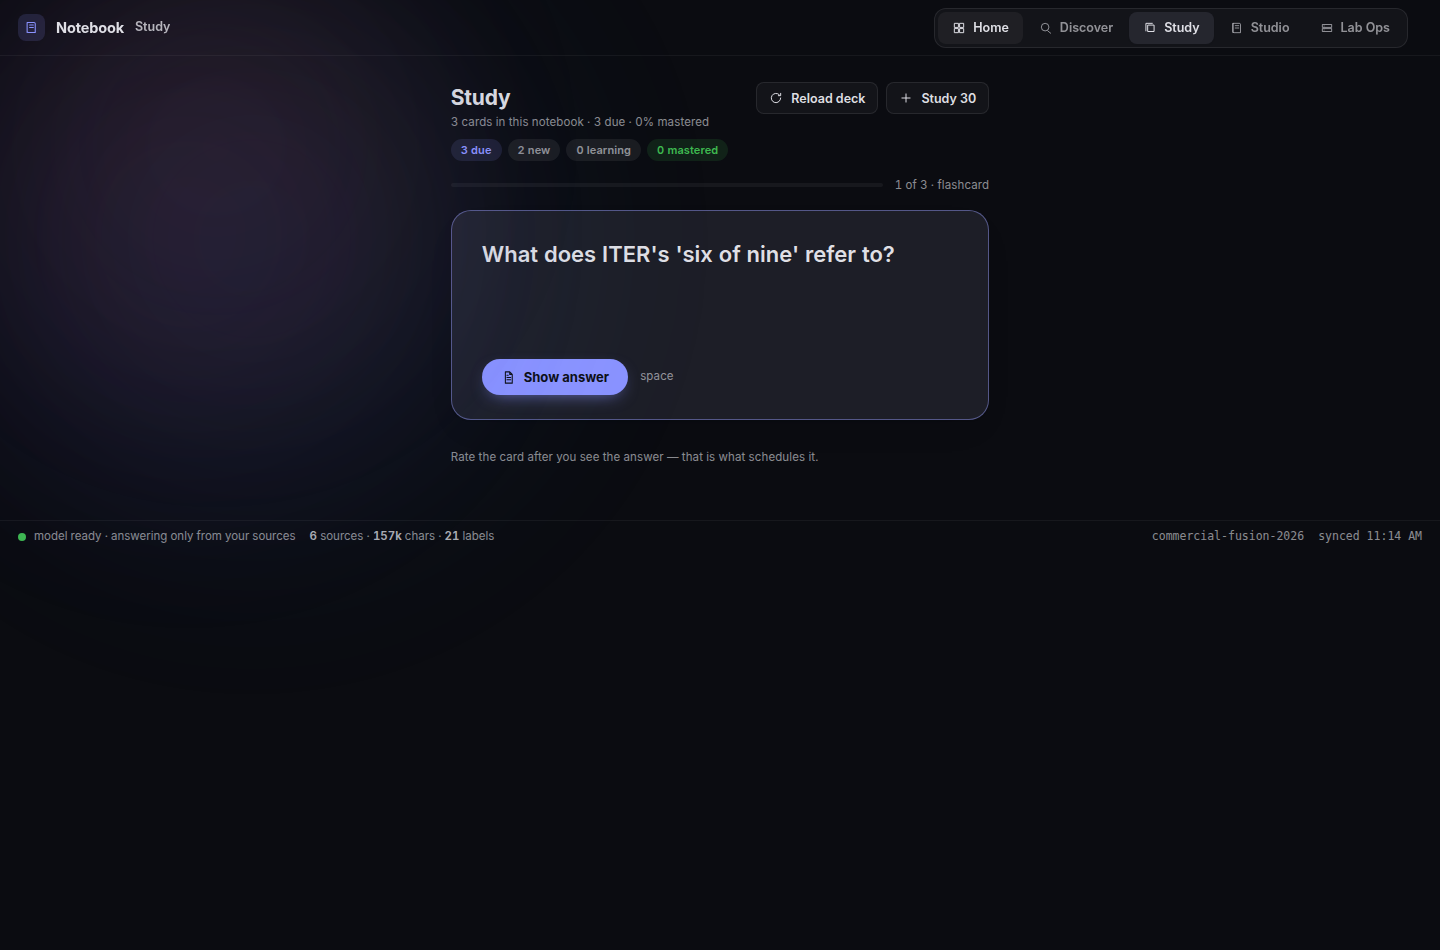
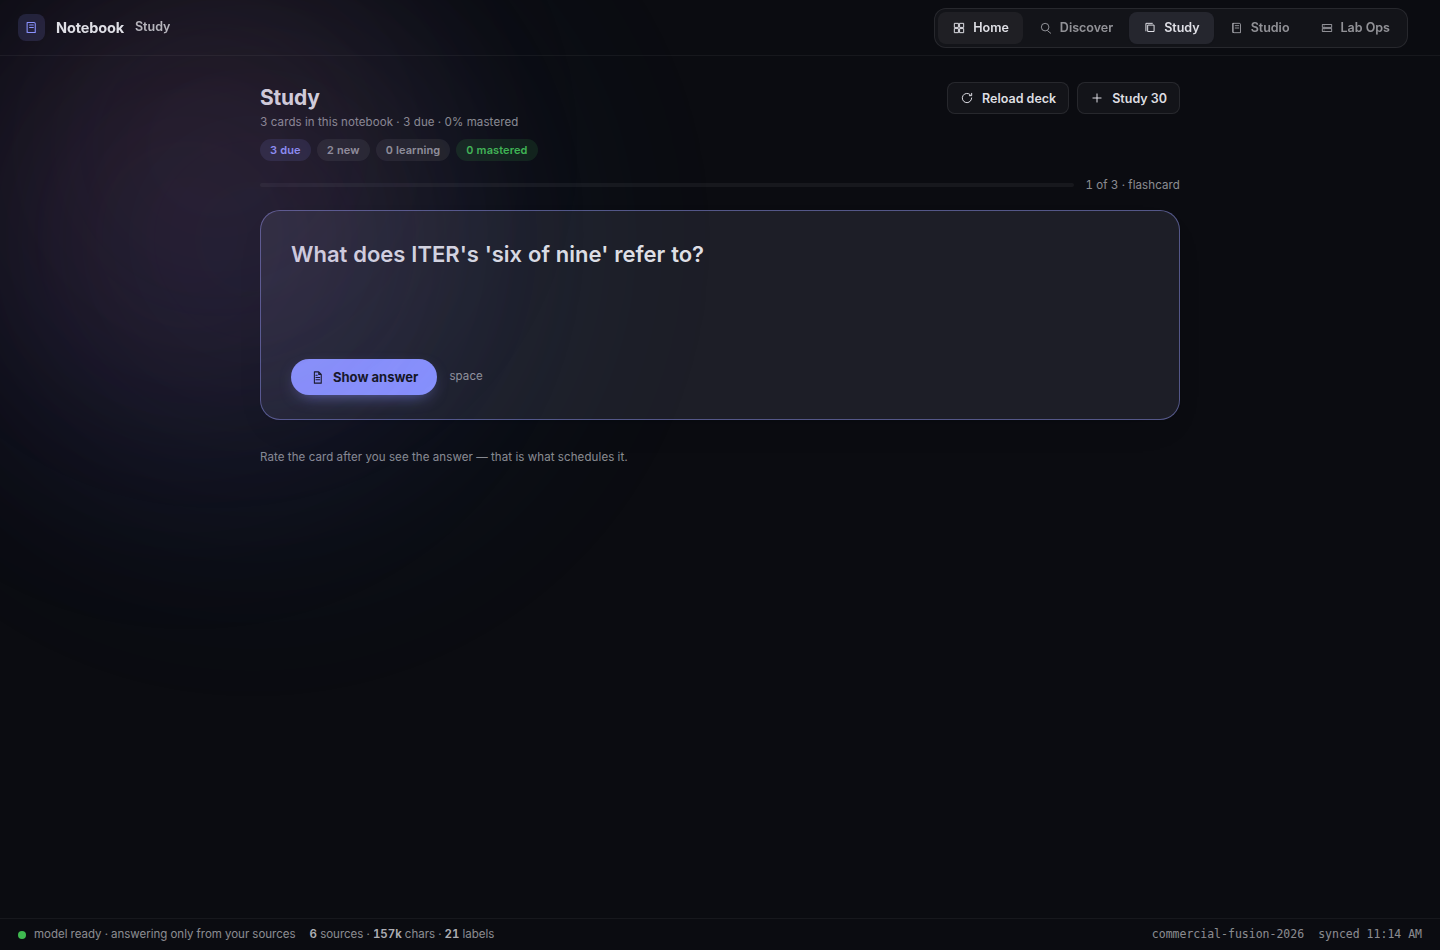
ui: study fills its column so the status bar stops floating mid-page
Study rendered as a content-height block: the status bar landed 398px above the
bottom edge and the page ended in a dead band. It is a flex child of the app shell
now, and a gate measures the gap on all four surfaces (0px, not 'looks fine').

diff --git a/tests/tmp/preview.bundle.js b/tests/tmp/preview.bundle.js
@@ -13525,7 +13525,8 @@ var CSS = `
 }
 
 /* study \u2014 a session, not a deck viewer: one card at a time, keyboard first */
-.nb-study{display:flex;flex-direction:column;gap:16px;padding:26px 30px 40px;max-width:980px;margin:0 auto;min-height:0}
+.nb-study{display:flex;flex-direction:column;gap:16px;padding:26px 30px 40px;max-width:980px;margin:0 auto;
+  width:100%;flex:1 1 auto;min-height:0;overflow:auto}
 .nb-study-head{display:flex;align-items:flex-start;gap:14px;flex-wrap:wrap}
 .nb-study-title{font-size:21px;font-weight:650;letter-spacing:-.01em;color:${T.text}}
 .nb-study-chips{display:flex;gap:6px;flex-wrap:wrap;margin-top:8px}

diff --git a/desktop/plugin.js b/desktop/plugin.js
@@ -758,7 +758,8 @@ const CSS = `
 }
 
 /* study — a session, not a deck viewer: one card at a time, keyboard first */
-.nb-study{display:flex;flex-direction:column;gap:16px;padding:26px 30px 40px;max-width:980px;margin:0 auto;min-height:0}
+.nb-study{display:flex;flex-direction:column;gap:16px;padding:26px 30px 40px;max-width:980px;margin:0 auto;
+  width:100%;flex:1 1 auto;min-height:0;overflow:auto}
 .nb-study-head{display:flex;align-items:flex-start;gap:14px;flex-wrap:wrap}
 .nb-study-title{font-size:21px;font-weight:650;letter-spacing:-.01em;color:${T.text}}
 .nb-study-chips{display:flex;gap:6px;flex-wrap:wrap;margin-top:8px}

diff --git a/src/00-head.js b/src/00-head.js
@@ -758,7 +758,8 @@ const CSS = `
 }
 
 /* study — a session, not a deck viewer: one card at a time, keyboard first */
-.nb-study{display:flex;flex-direction:column;gap:16px;padding:26px 30px 40px;max-width:980px;margin:0 auto;min-height:0}
+.nb-study{display:flex;flex-direction:column;gap:16px;padding:26px 30px 40px;max-width:980px;margin:0 auto;
+  width:100%;flex:1 1 auto;min-height:0;overflow:auto}
 .nb-study-head{display:flex;align-items:flex-start;gap:14px;flex-wrap:wrap}
 .nb-study-title{font-size:21px;font-weight:650;letter-spacing:-.01em;color:${T.text}}
 .nb-study-chips{display:flex;gap:6px;flex-wrap:wrap;margin-top:8px}

diff --git a/web/plugin.js b/web/plugin.js
@@ -758,7 +758,8 @@ const CSS = `
 }
 
 /* study — a session, not a deck viewer: one card at a time, keyboard first */
-.nb-study{display:flex;flex-direction:column;gap:16px;padding:26px 30px 40px;max-width:980px;margin:0 auto;min-height:0}
+.nb-study{display:flex;flex-direction:column;gap:16px;padding:26px 30px 40px;max-width:980px;margin:0 auto;
+  width:100%;flex:1 1 auto;min-height:0;overflow:auto}
 .nb-study-head{display:flex;align-items:flex-start;gap:14px;flex-wrap:wrap}
 .nb-study-title{font-size:21px;font-weight:650;letter-spacing:-.01em;color:${T.text}}
 .nb-study-chips{display:flex;gap:6px;flex-wrap:wrap;margin-top:8px}
